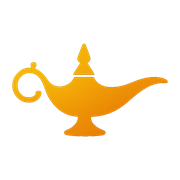
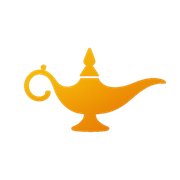
new changes

diff --git a/index.html b/index.html
@@ -4,8 +4,11 @@
     <meta charset="UTF-8">
     <meta name="viewport" content="width=device-width, initial-scale=1.0">
     <title>Jinni - Your AI Guide</title>
-    <link rel="icon" type="image/x-icon" href="/bottlee.png">
-    <link rel="icon" type="image/png" sizes="32x32" href="/bottlee.png">
+    <!-- Tight-cropped lamp icons — the raw logo PNG has big transparent
+         margins that made the favicon look tiny in browser tabs. -->
+    <link rel="icon" type="image/x-icon" href="/favicon.ico">
+    <link rel="icon" type="image/png" sizes="32x32" href="/favicon-32.png">
+    <link rel="icon" type="image/png" sizes="64x64" href="/favicon-64.png">
     <link rel="apple-touch-icon" sizes="180x180" href="/apple-touch-icon.png">
 </head>
 <body>
